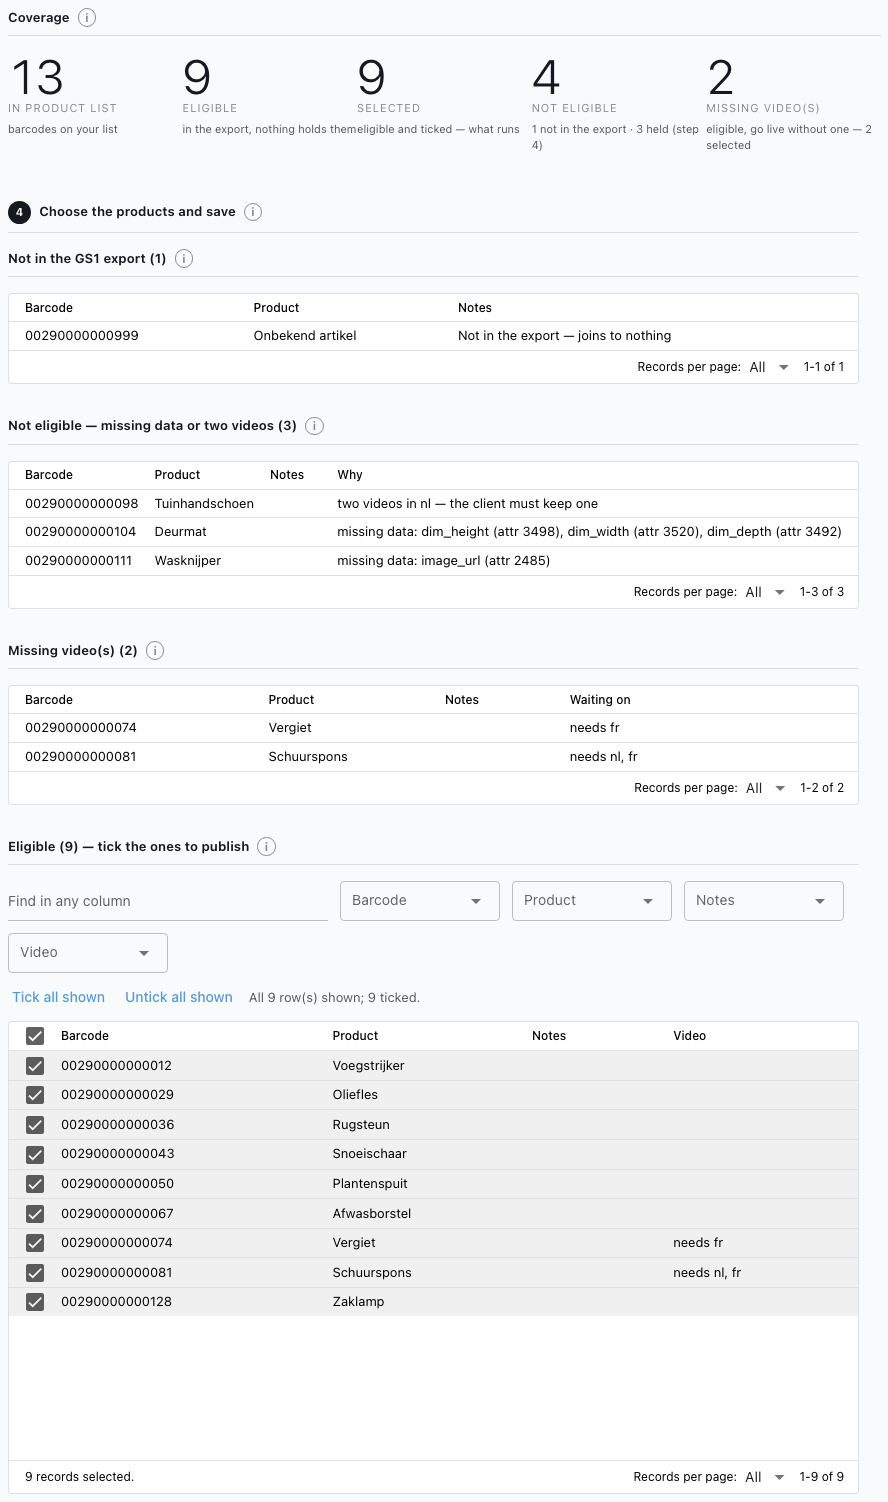
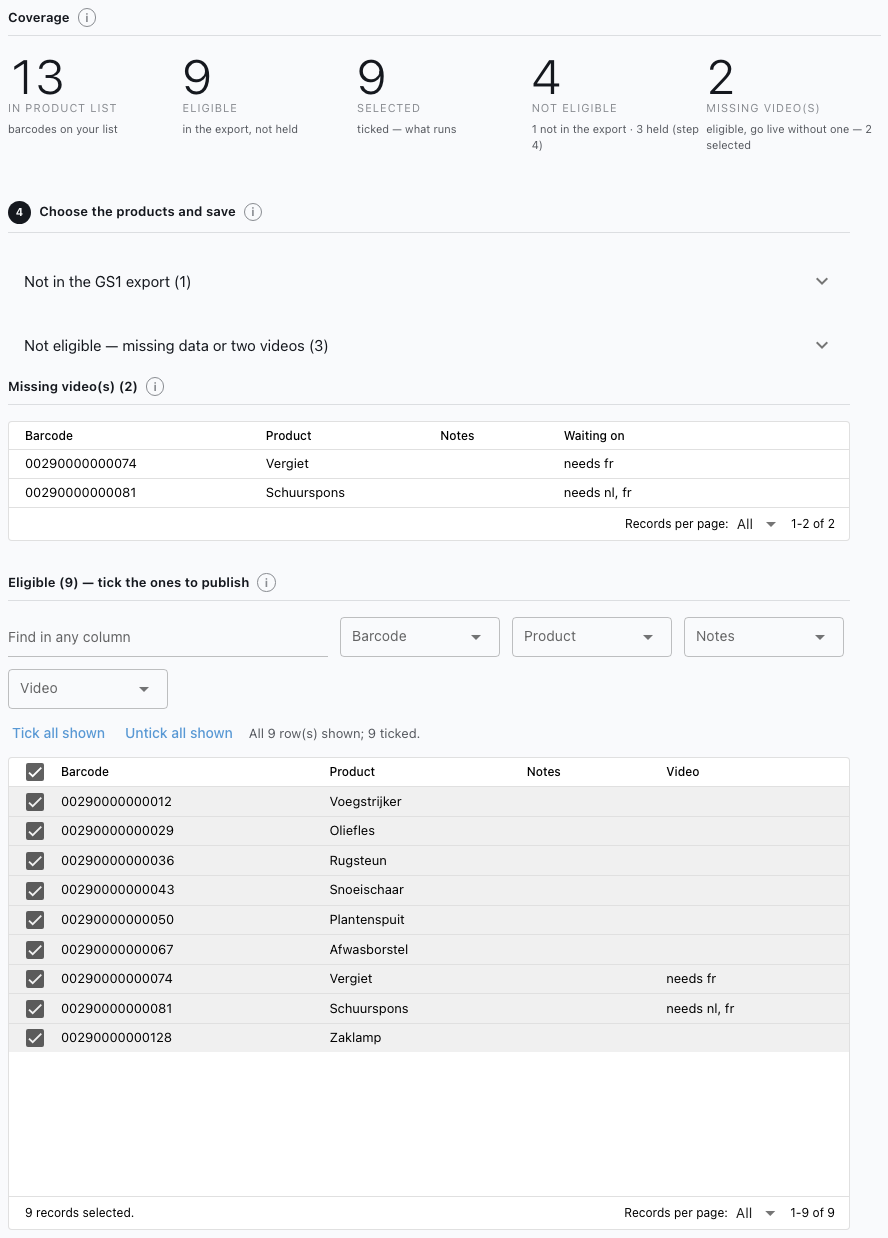
feat(ui): fold "Not in the GS1 export" and "Not eligible" by default
Operator feedback: both tables of products a run cannot publish are
reference, so they start collapsed with the count kept in the title. The
missing-video table and the eligible table stay open. Also shortens two
coverage captions that ran together at 1280px.

diff --git a/ui/batch_grid.py b/ui/batch_grid.py
@@ -120,8 +120,8 @@ def draw_funnel(box: ui.element, counts: Funnel) -> None:
         )
         with theme.figures():
             theme.figure(str(counts.listed), "in product list", "barcodes on your list")
-            theme.figure(str(counts.eligible), "eligible", "in the export, nothing holds them")
-            theme.figure(str(counts.selected), "selected", "eligible and ticked — what runs")
+            theme.figure(str(counts.eligible), "eligible", "in the export, not held")
+            theme.figure(str(counts.selected), "selected", "ticked — what runs")
             theme.figure(
                 str(counts.not_in_export + counts.not_eligible),
                 "not eligible",
@@ -211,6 +211,7 @@ def choose(  # noqa: PLR0913 — the batch, its verdict, its save, its caption, 
         "no tick box because there is nothing to choose.",
         columns,
         missing,
+        collapsed=True,
     )
     _readonly(
         f"Not eligible — {_held_title(held)} ({len(held)})",
@@ -220,6 +221,7 @@ def choose(  # noqa: PLR0913 — the batch, its verdict, its save, its caption, 
         "box, and become eligible on their own once fixed.",
         [*columns, _wrapping(_WHY, "Why")],
         held,
+        collapsed=True,
     )
     _readonly(
         f"Missing video(s) ({len(bare)})",
@@ -271,16 +273,34 @@ def _wrapping(name: str, label: str) -> dict[str, Any]:
 
 
 def _readonly(
-    title: str, explain: str, columns: list[dict[str, Any]], rows: list[dict[str, Any]]
+    title: str,
+    explain: str,
+    columns: list[dict[str, Any]],
+    rows: list[dict[str, Any]],
+    *,
+    collapsed: bool = False,
 ) -> None:
-    """A headed table with no choice in it. Absent when empty: an empty table is not a finding."""
+    """A headed table with no choice in it. Absent when empty: an empty table is not a finding.
+
+    ``collapsed`` folds it, with the count in the title so the fold still says how many: the
+    operator asked for the two tables of products a run cannot publish to start shut — they are
+    reference, and the eligible table is the work.
+    """
     if not rows:
         return
+    if collapsed:
+        fold = ui.expansion(title).classes("section w-full mb-4").props("dense")
+        with fold:
+            ui.label(explain).classes("explain")
+            _table(columns, rows)
+        return
     theme.subhead(title, explain=explain)
-    table = ui.table(columns=columns, rows=rows, row_key=_ROW, pagination=0).classes(
-        "w-full mt-2 mb-8"
-    )
-    table.props("dense flat bordered")
+    _table(columns, rows)
+
+
+def _table(columns: list[dict[str, Any]], rows: list[dict[str, Any]]) -> None:
+    table = ui.table(columns=columns, rows=rows, row_key=_ROW, pagination=0)
+    table.classes("w-full mt-2 mb-8").props("dense flat bordered")
 
 
 class _Selection:

diff --git a/docs/operator-guide.md b/docs/operator-guide.md
@@ -98,7 +98,7 @@ nothing is deleted, and the client's video sign-offs are not touched.
 
    The three sit side by side because none of them waits on another: bring whichever you have.
 
-<img src="images/data-choose.png" alt="Coverage figures — 13 in product list, 9 eligible, 9 selected, 4 not eligible, 2 missing videos — then step 4: a table of barcodes not in the GS1 export, a table of products that are not eligible with the reason, a table of products missing a video, and the eligible products with tick boxes." width="900">
+<img src="images/data-choose.png" alt="Coverage figures — 13 in product list, 9 eligible, 9 selected, 4 not eligible, 2 missing videos — then step 4: the folded tables Not in the GS1 export and Not eligible, each with its count, a table of products missing a video, and the eligible products with tick boxes." width="900">
 
 **Coverage** counts your batch, in products, from left to right: how many are **in your product
 list**, how many of those are **eligible** (the export has them and nothing stops them being
@@ -121,8 +121,9 @@ live **without a video**. The figures change as you tick.
      only one where the choice is yours. Every row arrives ticked; the **Video** column repeats
      which languages a product goes live without a video in.
 
-   The first two tables have no tick boxes on purpose: nothing can publish those products, so there
-   is nothing to choose. They stay in your list either way.
+   The first two start **folded** — press the title to open one; the count is in the title either
+   way. They have no tick boxes on purpose: nothing can publish those products, so there is nothing
+   to choose. They stay in your list either way.
 
    > ⚠ **A tick means keep.** Untick a product to leave it out. If you used an earlier version of
    > this app, the button under the table said *Remove selected rows* and meant the opposite — it

diff --git a/docs/ui-operator-shell.md b/docs/ui-operator-shell.md
@@ -144,7 +144,8 @@ on a product exactly when the plan would publish it; `tests/lib/test_eligibility
 both settings of `media.publish_without_video`.
 
 **Step 4 splits the list four ways, in reading order:** not in the GS1 export · not eligible (with a
-*Why* column) · missing video(s) · eligible. Only the last has tick boxes. A save keeps the ticked
+*Why* column) · missing video(s) · eligible. Only the last has tick boxes, and the first two start **folded** with their
+count in the title (operator feedback): they are reference, the eligible table is the work. A save keeps the ticked
 eligible rows **and every row that is not eligible**: nothing can run those, and keeping them is what
 lets the result sheet name them afterwards. Unticks live in a per-client `batch_grid.Ticks` for the
 life of the process, so a mapping write — which can make a product eligible — rebuilds step 4
